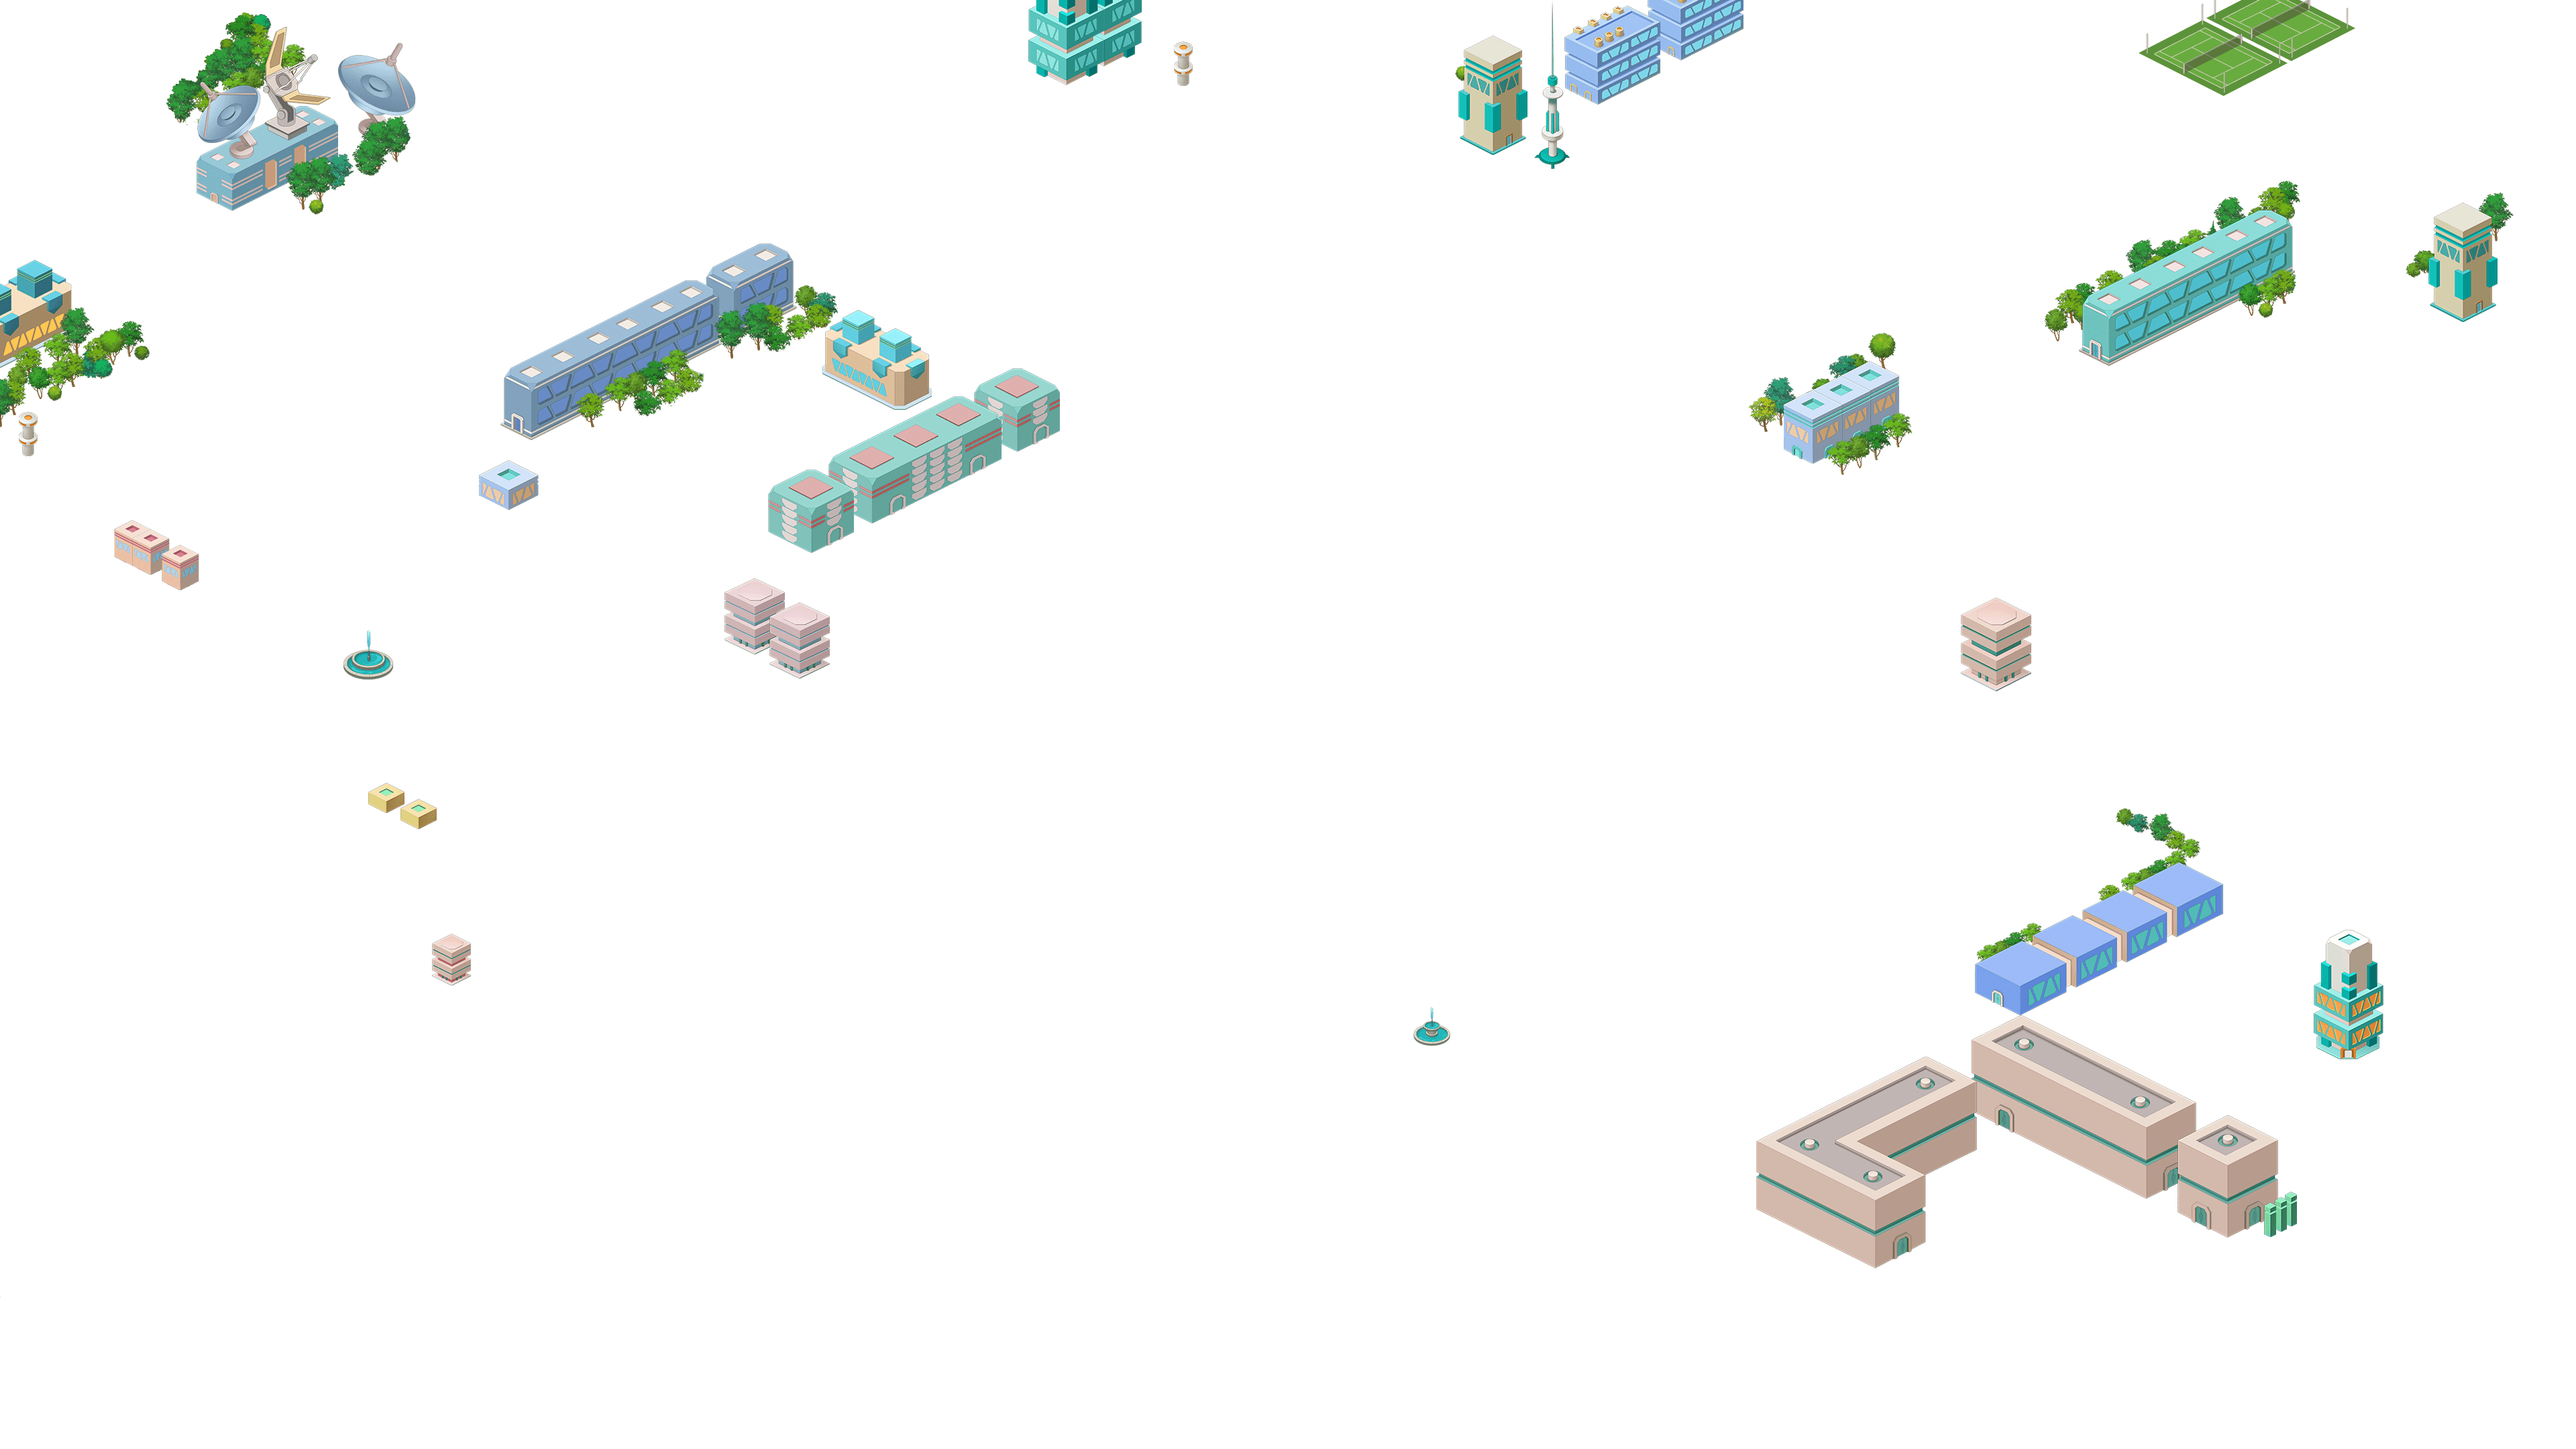
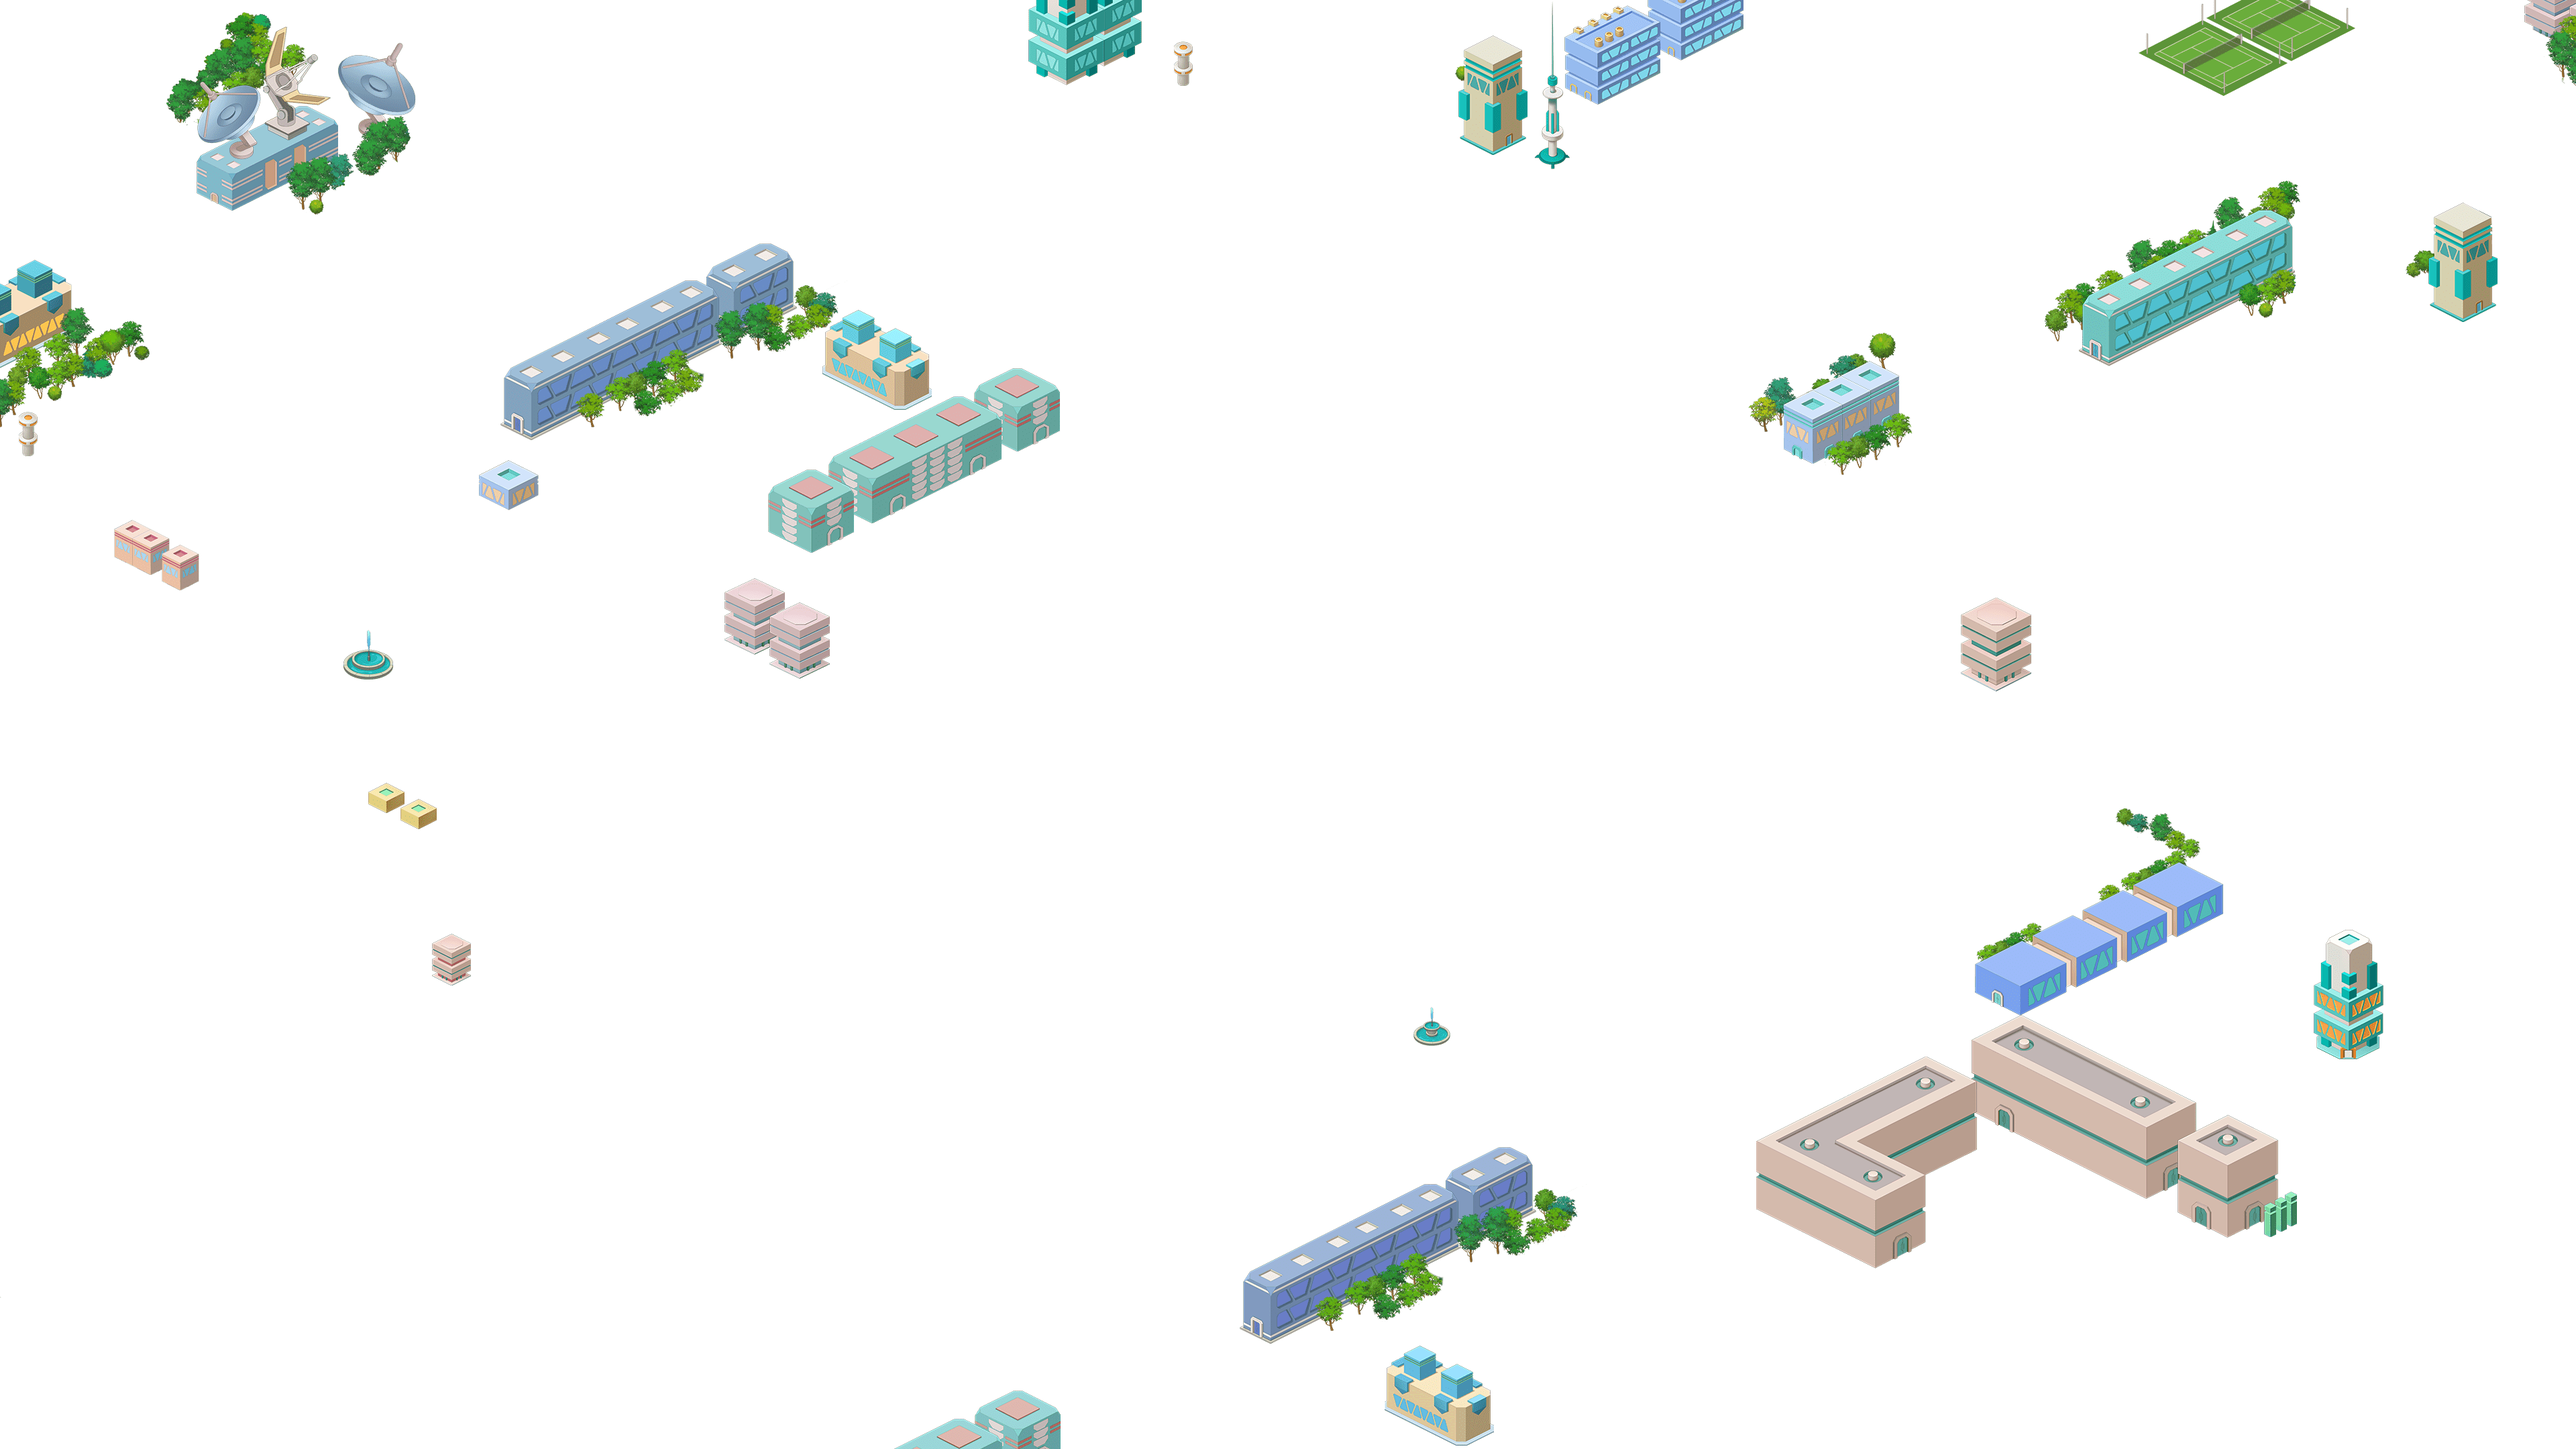
building decor

diff --git a/src/components/map/index.tsx b/src/components/map/index.tsx
@@ -21,8 +21,11 @@ import tree31 from '../../img/trees/3.1.png';
 import tree32 from '../../img/trees/3.2.png';
 import tree33 from '../../img/trees/3.3.png';
 import decor12 from '../../img/decorations/1.2.png';
+import decor13 from '../../img/decorations/1.3.png';
 import decor21 from '../../img/decorations/2.1.png';
 import decor22 from '../../img/decorations/2.2.png';
+import decor23 from '../../img/decorations/2.3.png';
+import decor32 from '../../img/decorations/3.2.png';
 
 const MapWrapper = styled.div`
   width: 100%;
@@ -81,6 +84,7 @@ export const Map: React.FC = () => {
         style={styleConfig.img13}
         roadImg={road13}
         treeImg={tree13}
+        decorationImg={decor13}
       />
       <MapFragment
         style={styleConfig.img21}
@@ -99,6 +103,7 @@ export const Map: React.FC = () => {
         style={styleConfig.img23}
         roadImg={road23}
         treeImg={tree23}
+        decorationImg={decor23}
       />
       <MapFragment
         style={styleConfig.img21}
@@ -109,6 +114,7 @@ export const Map: React.FC = () => {
         style={styleConfig.img22}
         roadImg={road32}
         treeImg={tree32}
+        decorationImg={decor32}
       />
       <MapFragment
         style={styleConfig.img23}
